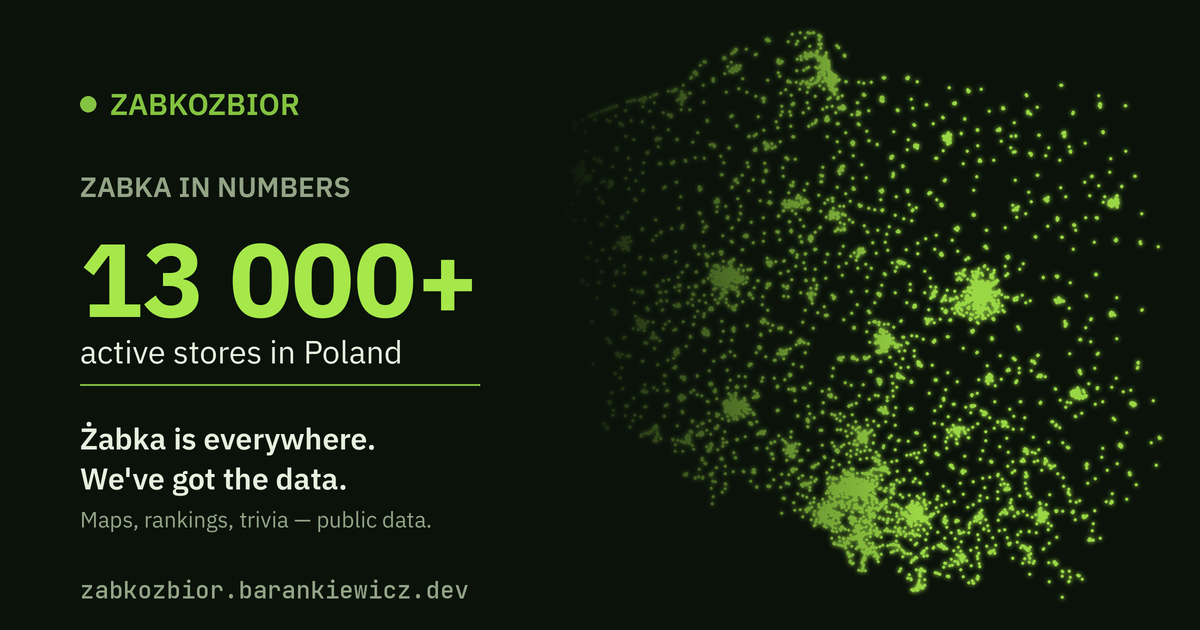
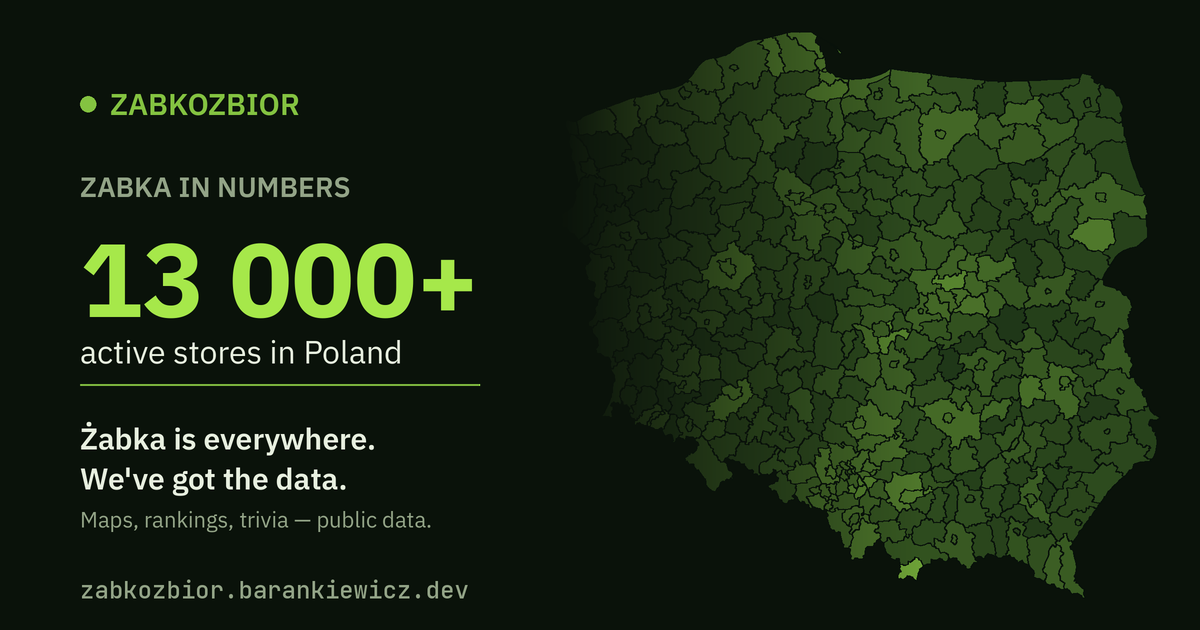
Update OG background to powiaty map and edit k-NN title text
Swapped the glowing dot map in the background of the home OG images with the new powiaty store density choropleth map from the GRAN section. Also updated the k-NN chart title to read 'Polowa Zabek ma inna Zabke blizej niz 300m' instead of the more abstract 'Polowa sieci ma sasiadke blizej niz 299 m' (and updated the English translation too) so it's a bit more friendly and uses a rounded number.

Changed region(s): [[0.5242, 0.0302, 0.9867, 0.9651]]

diff --git a/frontend/src/i18n.js b/frontend/src/i18n.js
@@ -212,7 +212,7 @@ export const translations = {
     knn_rarest: "Rarest",
     knn_densest: "Densest",
     knn_caveat: "The median is robust against single isolated stores; the average is skewed upward by extremes (in Podkarpackie the average is ~{{STAT_PODKARPACKIE_AVG_KM}} km, while the median is {{STAT_PODKARPACKIE_MEDIAN_M}} m).",
-    knn_half_title: "Half of the network has a neighbor closer than {{STAT_NEIGHBOR_MEDIAN_M}} m",
+    knn_half_title: "Half of all Żabkas have another Żabka closer than 300m",
     knn_half_sub: "Distribution of distance to the nearest store (k-NN).",
     knn_stat_max: "max.",
 
@@ -691,7 +691,7 @@ export const translations = {
     knn_rarest: "Najrzadsze",
     knn_densest: "Najgęstsze",
     knn_caveat: "Mediana jest odporna na pojedyncze samotne sklepy; średnią zawyżają wartości skrajne (w podkarpackiem średnia to ~{{STAT_PODKARPACKIE_AVG_KM}} km, a mediana {{STAT_PODKARPACKIE_MEDIAN_M}} m).",
-    knn_half_title: "Połowa sieci ma sąsiadkę bliżej niż {{STAT_NEIGHBOR_MEDIAN_M}} m",
+    knn_half_title: "Połowa Żabek ma inną Żabkę bliżej niż 300m",
     knn_half_sub: "Rozkład odległości do najbliższego sklepu (k-NN).",
     knn_stat_max: "maks.",
 

diff --git a/frontend/index.html b/frontend/index.html
@@ -559,7 +559,7 @@
       <div class="caveat" id="nbl-caveat" data-t="knn_caveat">Mediana jest odporna na pojedyncze samotne sklepy; średnią zawyżają wartości skrajne (w podkarpackiem średnia to ~{{STAT_PODKARPACKIE_AVG_KM}} km, a mediana {{STAT_PODKARPACKIE_MEDIAN_M}} m).</div>
     </div>
     <div class="card" style="display:flex;flex-direction:column">
-      <div class="card-title" data-t="knn_half_title">Połowa sieci ma sąsiadkę bliżej niż {{STAT_NEIGHBOR_MEDIAN_M}} m</div>
+      <div class="card-title" data-t="knn_half_title">Połowa Żabek ma inną Żabkę bliżej niż 300m</div>
       <div class="card-sub" data-t="knn_half_sub">Rozkład odległości do najbliższego sklepu (k-NN).</div>
       <div style="flex:1;display:flex;flex-direction:column;justify-content:center">
         <div class="chart-wrap" style="height:380px"><canvas id="spol-knnChart" aria-label="Histogram: rozkład odległości do najbliższego sklepu, mediana 299 m, średnia 942 m." data-t-aria="chart_knn_aria"></canvas></div>

diff --git a/data/tools/generate_og_image.py b/data/tools/generate_og_image.py
@@ -1,22 +1,22 @@
 """
-Generates frontend/public/og.png - the homepage social-preview image (S6 of the
-shareability roadmap: "your strongest single visual, the glowing dot map, plus
-ONE number, dark theme so it pops in feeds").
-
-A one-off build tool, not part of the ETL or request path: og.png is a static
-file Vite copies into dist/ as-is (unlike the per-fact /fakt/<slug>/og.png
-cards, which backend/og_image.py renders live per request). Re-run by hand
-whenever the store count or the brand visuals change meaningfully - it does
-not need to track the daily ETL.
+Generates frontend/public/og.png and og-en.png - the homepage social-preview images.
+Uses the original layout with a single prominent store count (e.g. 13 000+),
+but renders the new Powiaty choropleth map in the background.
 
 Usage: python data/tools/generate_og_image.py
 """
 
 import math
 import os
+import sys
+import json
+
+# Ensure backend package can be imported
+sys.path.insert(0, os.path.abspath(os.path.join(os.path.dirname(__file__), "..", "..")))
 
 import duckdb
 from PIL import Image, ImageDraw, ImageFilter, ImageFont
+from backend.api.geo_router import _build_pow_econ_geo
 
 WIDTH, HEIGHT = 1200, 630
 SS = 2  # supersample factor: draw at 2x, downsample at the end for antialiasing
@@ -32,6 +32,8 @@ FONTS_DIR = os.path.join(os.path.dirname(__file__), "..", "..", "backend", "asse
 OUT_PATH_PL = os.path.join(os.path.dirname(__file__), "..", "..", "frontend", "public", "og.png")
 OUT_PATH_EN = os.path.join(os.path.dirname(__file__), "..", "..", "frontend", "public", "og-en.png")
 
+GRAN_RAMP_STOPS = ['#233d1a', '#3b5f24', '#54802e', '#6ca237', '#84c341']
+
 
 def _font(name: str, size: int, variation: str) -> ImageFont.FreeTypeFont:
     f = ImageFont.truetype(os.path.join(FONTS_DIR, name), size)
@@ -44,27 +46,59 @@ def _hex_to_rgb(h: str) -> tuple:
     return tuple(int(h[i:i + 2], 16) for i in (0, 2, 4))
 
 
+def interpolate_color(t: float) -> tuple:
+    t = max(0.0, min(1.0, t))
+    seg = t * (len(GRAN_RAMP_STOPS) - 1)
+    i = min(len(GRAN_RAMP_STOPS) - 2, int(seg))
+    u = seg - i
+    a = _hex_to_rgb(GRAN_RAMP_STOPS[i])
+    b = _hex_to_rgb(GRAN_RAMP_STOPS[i + 1])
+    r = int(round(a[0] + (b[0] - a[0]) * u))
+    g = int(round(a[1] + (b[1] - a[1]) * u))
+    b_val = int(round(a[2] + (b[2] - a[2]) * u))
+    return (r, g, b_val)
+
+
 def fetch_points() -> tuple:
     con = duckdb.connect(DB_PATH, read_only=True)
     total = con.execute("SELECT count(*) FROM locations WHERE deleted_at IS NULL").fetchone()[0]
-    rows = con.execute(
-        "SELECT latitude, longitude FROM locations WHERE deleted_at IS NULL"
-    ).fetchall()
     con.close()
-    return total, rows
+    return total
 
 
-def render_dot_map(points: list, box: tuple) -> Image.Image:
-    """Render a glowing green dot map of the given (lat, lon) points, fit inside
-    `box` = (x0, y0, x1, y1) in 1x canvas coordinates, preserving Poland's real
-    aspect ratio (longitude degrees are compressed by cos(latitude))."""
+def render_powiaty_map(geojson_data: dict, box: tuple) -> Image.Image:
+    """Render a powiaty choropleth map of Poland, colored by per_1k,
+    fit inside `box` = (x0, y0, x1, y1) in 1x canvas coordinates, preserving aspect ratio."""
+    features = geojson_data.get("features", [])
+
+    # 1. Collect all coordinates to compute global bounding box of Poland
+    lons = []
+    lats = []
+    for f in features:
+        geom = f.get("geometry") or {}
+        gtype = geom.get("type")
+        coords = geom.get("coordinates") or []
+        if gtype == "Polygon":
+            for ring in coords:
+                for lon, lat in ring:
+                    lons.append(lon)
+                    lats.append(lat)
+        elif gtype == "MultiPolygon":
+            for poly in coords:
+                for ring in poly:
+                    for lon, lat in ring:
+                        lons.append(lon)
+                        lats.append(lat)
+
+    if not lons or not lats:
+        lon_min, lon_max, lat_min, lat_max = 14.07, 24.15, 49.00, 54.84
+    else:
+        lon_min, lon_max, lat_min, lat_max = min(lons), max(lons), min(lats), max(lats)
+
+    # 2. Compute scale and origin using the projection logic
     x0, y0, x1, y1 = [v * SS for v in box]
     box_w, box_h = x1 - x0, y1 - y0
 
-    lats = [p[0] for p in points]
-    lons = [p[1] for p in points]
-    lat_min, lat_max = min(lats), max(lats)
-    lon_min, lon_max = min(lons), max(lons)
     mean_lat_rad = math.radians((lat_min + lat_max) / 2)
     lon_correction = math.cos(mean_lat_rad)
 
@@ -81,31 +115,62 @@ def render_dot_map(points: list, box: tuple) -> Image.Image:
     origin_x = x0 + (box_w - plot_w) / 2
     origin_y = y0 + (box_h - plot_h) / 2
 
-    dots = Image.new("L", (WIDTH * SS, HEIGHT * SS), 0)
-    draw = ImageDraw.Draw(dots)
-    r = 1.5 * SS
-    for lat, lon in points:
-        px = origin_x + (lon - lon_min) * scale_x
-        py = origin_y + (lat_max - lat) * scale_y
-        draw.ellipse((px - r, py - r, px + r, py + r), fill=255)
+    # 3. Create transparency layer for drawing
+    map_layer = Image.new("RGBA", (WIDTH * SS, HEIGHT * SS), (0, 0, 0, 0))
+    map_draw = ImageDraw.Draw(map_layer)
 
-    glow = dots.filter(ImageFilter.GaussianBlur(radius=2.2 * SS))
-    core = dots.filter(ImageFilter.GaussianBlur(radius=0.4 * SS))
-    from PIL import ImageChops
-    intensity = ImageChops.lighter(
-        Image.eval(glow, lambda v: min(v, 150)),
-        Image.eval(core, lambda v: min(v, 235)),
-    )
+    # 4. Extract values to normalize per_1k
+    vals = []
+    for f in features:
+        v = f.get("properties", {}).get("per_1k")
+        if v is not None:
+            vals.append(v)
+    vmin = min(vals) if vals else 0.0
+    vmax = max(vals) if vals else 1.0
+    if vmax <= vmin:
+        vmax = vmin + 0.001
 
-    color = _hex_to_rgb(GREEN_BRIGHT)
-    layer = Image.new("RGBA", (WIDTH * SS, HEIGHT * SS), color + (0,))
-    layer.putalpha(intensity)
-    return layer
+    # 5. Draw each powiat
+    outline_color = _hex_to_rgb("#08110a") + (255,)
+
+    for f in features:
+        geom = f.get("geometry") or {}
+        gtype = geom.get("type")
+        coords = geom.get("coordinates") or []
+
+        v = f.get("properties", {}).get("per_1k")
+        if v is None:
+            v = 0.0
+
+        t = (v - vmin) / (vmax - vmin)
+        color = interpolate_color(t)
+        fill_color = color + (int(0.86 * 255),)  # 86% opacity
+
+        polygons = []
+        if gtype == "Polygon":
+            polygons = coords
+        elif gtype == "MultiPolygon":
+            for poly in coords:
+                polygons.extend(poly)
+
+        for ring in polygons:
+            xy = []
+            for lon, lat in ring:
+                px = origin_x + (lon - lon_min) * scale_x
+                py = origin_y + (lat_max - lat) * scale_y
+                xy.append((px, py))
+            if len(xy) >= 3:
+                # Fill the polygon
+                map_draw.polygon(xy, fill=fill_color, outline=None)
+                # Draw the outline with thickness 1.5 * SS (3 pixels)
+                map_draw.line(xy + [xy[0]], fill=outline_color, width=int(1.5 * SS))
+
+    return map_layer
 
 
 def horizontal_scrim(fade_start: int, fade_end: int) -> Image.Image:
     """Opaque BG on the left fading to fully transparent by fade_end, so the
-    dot map stays visible on the right while text stays legible on the left."""
+    map stays visible on the right while text stays legible on the left."""
     w, h = WIDTH * SS, HEIGHT * SS
     fade_start *= SS
     fade_end *= SS
@@ -126,11 +191,11 @@ def horizontal_scrim(fade_start: int, fade_end: int) -> Image.Image:
     return scrim
 
 
-def build(total_count: int, points: list, lang: str = "pl") -> Image.Image:
+def build(total_count: int, geojson_data: dict, lang: str = "pl") -> Image.Image:
     img = Image.new("RGBA", (WIDTH * SS, HEIGHT * SS), BG)
 
-    dot_map = render_dot_map(points, box=(560, 20, 1160, 610))
-    img = Image.alpha_composite(img, dot_map)
+    powiaty_map = render_powiaty_map(geojson_data, box=(560, 20, 1160, 610))
+    img = Image.alpha_composite(img, powiaty_map)
     img = Image.alpha_composite(img, horizontal_scrim(fade_start=560, fade_end=920))
 
     draw = ImageDraw.Draw(img)
@@ -159,30 +224,38 @@ def build(total_count: int, points: list, lang: str = "pl") -> Image.Image:
         headline_2 = "Mamy na to twarde dane."
         tagline_text = "Mapy, rankingi, ciekawostki — dane publiczne."
 
+    # Draw Brand header
     draw.ellipse((m, 96 * SS, m + 16 * SS, 112 * SS), fill=GREEN)
     draw.text((m + 30 * SS, 84 * SS), brand_text, font=brand_font, fill=GREEN)
 
+    # Draw Kicker
     kicker_y = 168 * SS
     draw.text((m, kicker_y), kicker_text, font=kicker_font, fill=MUTED)
 
+    # Draw Value (Count)
     value = f"{total_count // 1000} 000+"
     value_y = kicker_y + 42 * SS
     draw.text((m, value_y), value, font=value_font, fill=GREEN_BRIGHT)
     value_bbox = draw.textbbox((m, value_y), value, font=value_font)
 
+    # Draw Subtitle
     subtitle_y = value_bbox[3] + 12 * SS
     draw.text((m, subtitle_y), subtitle_text, font=subtitle_font, fill=INK)
 
+    # Draw horizontal separator line
     line_y = subtitle_y + 54 * SS
     draw.line((m, line_y, m + 400 * SS, line_y), fill=(*_hex_to_rgb(GREEN), 90), width=int(2 * SS))
 
+    # Draw Headline lines
     headline_y = line_y + 34 * SS
     draw.text((m, headline_y), headline_1, font=headline_font, fill=INK)
     draw.text((m, headline_y + 40 * SS), headline_2, font=headline_font, fill=INK)
 
+    # Draw Tagline
     tagline_y = headline_y + 40 * SS + 46 * SS
     draw.text((m, tagline_y), tagline_text, font=tagline_font, fill=MUTED)
 
+    # Draw Footer
     footer_y = HEIGHT * SS - 56 * SS
     draw.text((m, footer_y), "zabkozbior.barankiewicz.dev", font=footer_font, fill=MUTED)
 
@@ -190,12 +263,17 @@ def build(total_count: int, points: list, lang: str = "pl") -> Image.Image:
 
 
 def main():
-    total_count, points = fetch_points()
-    img_pl = build(total_count, points, lang="pl")
+    total_count = fetch_points()
+
+    # Load GeoJSON data
+    geojson_bytes = _build_pow_econ_geo()
+    geojson_data = json.loads(geojson_bytes.decode("utf-8"))
+
+    img_pl = build(total_count, geojson_data, lang="pl")
     img_pl.save(OUT_PATH_PL, format="PNG")
     print(f"Wrote {OUT_PATH_PL} ({total_count} active stores plotted, headline value {total_count // 1000} 000+)")
-    
-    img_en = build(total_count, points, lang="en")
+
+    img_en = build(total_count, geojson_data, lang="en")
     img_en.save(OUT_PATH_EN, format="PNG")
     print(f"Wrote {OUT_PATH_EN} ({total_count} active stores plotted, headline value {total_count // 1000} 000+)")
 